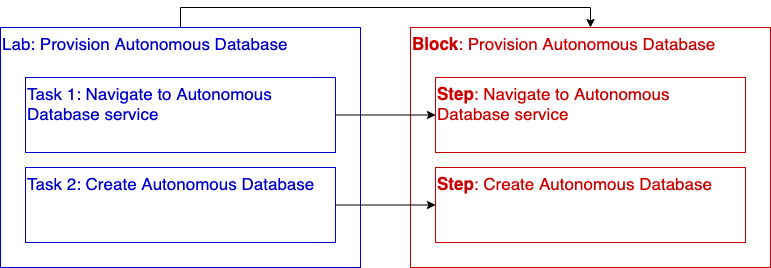
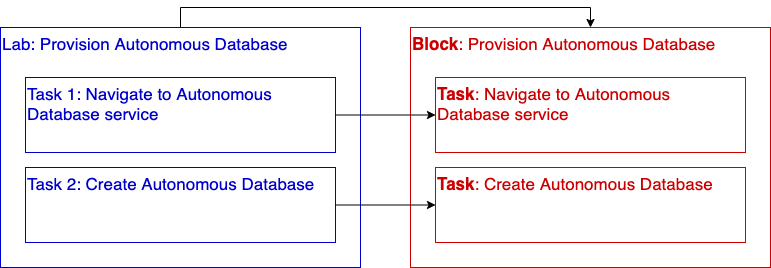
Steps to tasks

Changed region(s): [[0.5603, 0.6567, 0.9339, 0.7164], [0.5603, 0.3284, 0.8716, 0.3881]]

diff --git a/blocks/tasks/generate-documentation.py b/blocks/tasks/generate-documentation.py
@@ -59,7 +59,7 @@ write(' "variables": ["/blocks/variables/variables.json"],')
 write(' "tutorials": [  ')
 write('')
 write('     {')
-write('         "title": "Authoring using Blocks and tasks",' )
+write('         "title": "Authoring using Blocks and Tasks",' )
 write('         "type": "freetier",' )
 write('         "filename": "/blocks/how-to-author-with-blocks/how-to-author-with-blocks.md"' )
 write('     },')
@@ -70,7 +70,7 @@ for c in services:
         current_area = c.area
         filename = "/" + service_list_path + "/" + c.area + ".md"
         write('     {')
-        write('         "title": "' + c.area.upper() + ' tasks",' )
+        write('         "title": "' + c.area.upper() + ' Tasks",' )
         write('         "type": "freetier",' )
         write('         "filename": "' + filename + '"' )
         write('     },')
@@ -119,7 +119,7 @@ for c in services:
     write("[]&lpar;" + c.name + ")")
     write("```")
     write("")
-    write('**Content:**')
+    write('**Markdown Output &#8595;&#8595;:**')
     write(" ")
     write("[](include:" + c.name + ")")
     write(" ")

diff --git a/blocks/how-to-author-with-blocks/how-to-author-with-blocks.md b/blocks/how-to-author-with-blocks/how-to-author-with-blocks.md
@@ -8,14 +8,14 @@ LiveLabs is a great environment for publishing workshops. There are a few things
 * Improve on-going maintenance of workshops
 * Promote consistency across workshops
 
-Building Blocks are a way to enhance both the workshop development and customer experience. This page focuses on how authors can use Building Blocks and Steps to accelerate workshop development.
+Building Blocks are a way to enhance both the workshop development and customer experience. This page focuses on how authors can use Building Blocks and Tasks to accelerate workshop development.
 
-## Building Blocks and Steps
-As an author, there are two types of components you may want to take advantage of: a Building Block and/or a Step. Let's examine these two concepts and how they map to your workshop development:
+## Building Blocks and Tasks
+As an author, there are two types of components you may want to take advantage of: a Building Block and/or a Task. Let's examine these two concepts and how they map to your workshop development:
 
-![Blocks and Steps](images/lab-to-block.png " ")
+![Blocks and Tasks](images/lab-to-block.png " ")
 
-Just as a lab is comprised of multiple tasks, a Block is comprised of multiple Steps.
+Just as a lab is comprised of multiple tasks, a Block is comprised of multiple Tasks.
 
 For example: ADB provisioning has two tasks:
 * Selecting the ADB Service from the OCI menu
@@ -23,13 +23,13 @@ For example: ADB provisioning has two tasks:
 
 In this case, there is a **Building Block** that directly maps to this lab. You can simply take this Building Block, add it to your workshop's manifest, update LiveLab variables (the database name, # CPUs, etc.) to match your lab's requirements, and your done. In the future, when updates are made to ADB provisioning, your lab will update automatically when the Building Block is updated.
 
-**Steps** map to the individual lab tasks. In this case, there are two Steps in the Block. Because a Step is a component, it can be used in this or multiple Blocks. And, its usage is not limited to Blocks. You can use the Step directly in your lab.
+**Tasks** map to the individual lab tasks. In this case, there are two Tasks in the Block. Because a Task is a component, it can be used in this or multiple Blocks. And, its usage is not limited to Blocks. You can use the Task directly in your lab.
 
-Having this step is really useful because numerous labs (including ADB Provisioning) navigate to the ADB Service. Since this is a common task, we've created a Step for it. When that navigation changes, the Step will be updated and all labs and Blocks that used that Step will be updated automatically.
+Having this Task is really useful because numerous labs (including ADB Provisioning) navigate to the ADB Service. Since this is a common task, we've created a Task for it. When that navigation changes, the Task will be updated and all labs and Blocks that used that Task will be updated automatically.
 
-Hope it's clear - Blocks and Steps will simplify your workshop authoring and on-going maintenance.
+Hope it's clear - Blocks and Tasks will simplify your workshop authoring and on-going maintenance.
 
-## How Building Blocks use Steps
+## How Building Blocks use Tasks
 Let's take a look at the markdown for Provisioning an Autonomous Database:
 
 ```
@@ -40,7 +40,7 @@ Let's take a look at the markdown for Provisioning an Autonomous Database:
 []&lpar;include:provision-console-body.md)
 ```
 
-As you can see, the markdown for this block is pretty simple. It is including two Steps: 1) go to the service and 2) provision using the console. It may be that the format of this Block does not meet your workshop requirements. No problem. Your workshop markdown can use these Steps in a similar way to the Building Block. Simply include the step within your markdown. 
+As you can see, the markdown for this block is pretty simple. It is including two Tasks: 1) go to the service and 2) provision using the console. It may be that the format of this Block does not meet your workshop requirements. No problem. Your workshop markdown can use these Tasks in a similar way to the Building Block. Simply include the Task within your markdown. 
 
 See below for how the markdown was rendered
 
@@ -53,7 +53,7 @@ See below for how the markdown was rendered
 
 ## The workshop manifest and variables
 ### variables.json
-Workshops have different requirements. Database names, OCPUs and other options may differ. LiveLabs uses variables to allow authors to update content. It may be that you need to make updates to the Step in order to make it more flexible; please share any required updates with the LiveLabs team.
+Workshops have different requirements. Database names, OCPUs and other options may differ. LiveLabs uses variables to allow authors to update content. It may be that you need to make updates to the Task in order to make it more flexible; please share any required updates with the LiveLabs team.
 
 The master list of all variables used in Blocks are stored in the ```/blocks/variables/variables.json``` file. You can copy this variables.json file to your own workshop if the default variable values need changing:
 
@@ -72,7 +72,7 @@ variables.json
 
 ###  manifest.json
 The manifest.json file describes the content of your workshop. It also contains references that will be used in your markdown. These references include:
-* ```include```: these are markdown files that will be referenced. Steps or Blocks will be listed here
+* ```include```: these are markdown files that will be referenced. Tasks or Blocks will be listed here
 * ```variables```: these are the variables that will be referenced in your markdown
 
  See below for an example ```manifest.json``` file and how these two attributes are referenced:
@@ -95,8 +95,8 @@ The manifest.json file describes the content of your workshop. It also contains 
 }
 ```
 
-## List of Building Blocks and Steps
-The remaining sections describe the Steps that are available to you broken out by service. The documentation provides snippets of how to include the Step in both the ``manifest.json`` and your markdown file. 
+## List of Building Blocks and Tasks
+The remaining sections describe the Tasks that are available to you broken out by service. The documentation provides snippets of how to include the Task in both the ``manifest.json`` and your markdown file. 
 
 [Go here to view the list of Building Blocks](/blocks/freetier/index.html).
 

diff --git a/blocks/tasks/services/adb.md b/blocks/tasks/services/adb.md
@@ -12,7 +12,7 @@
 []&lpar;connect-with-sql-worksheet-body.md)
 ```
 
-**Content:**
+**Markdown Output &#8595;&#8595;:**
  
 [](include:connect-with-sql-worksheet-body.md)
  
@@ -29,7 +29,7 @@
 []&lpar;goto-service-body.md)
 ```
 
-**Content:**
+**Markdown Output &#8595;&#8595;:**
  
 [](include:goto-service-body.md)
  
@@ -46,7 +46,7 @@
 []&lpar;provision-body.md)
 ```
 
-**Content:**
+**Markdown Output &#8595;&#8595;:**
  
 [](include:provision-body.md)
  

diff --git a/blocks/tasks/services/iam.md b/blocks/tasks/services/iam.md
@@ -12,7 +12,7 @@
 []&lpar;compartment-create-body.md)
 ```
 
-**Content:**
+**Markdown Output &#8595;&#8595;:**
  
 [](include:compartment-create-body.md)
  
